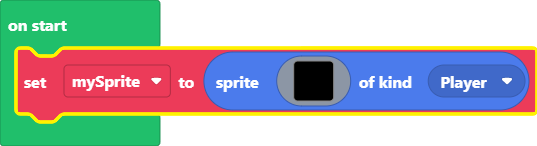
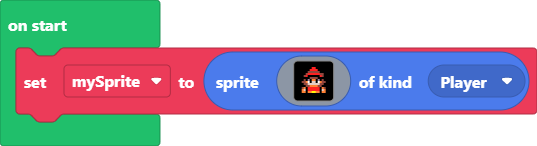
Update main.blocks, main.ts

Changed region(s): [[0.0, 0.3014, 1.0, 0.8493], [0.5363, 0.4658, 0.6257, 0.6575]]

diff --git a/main.ts b/main.ts
@@ -1,18 +1,18 @@
 let mySprite = sprites.create(img`
-    . . . . . . . . . . . . . . . . 
-    . . . . . . . . . . . . . . . . 
-    . . . . . . . . . . . . . . . . 
-    . . . . . . . . . . . . . . . . 
-    . . . . . . . . . . . . . . . . 
-    . . . . . . . . . . . . . . . . 
-    . . . . . . . . . . . . . . . . 
-    . . . . . . . . . . . . . . . . 
-    . . . . . . . . . . . . . . . . 
-    . . . . . . . . . . . . . . . . 
-    . . . . . . . . . . . . . . . . 
-    . . . . . . . . . . . . . . . . 
-    . . . . . . . . . . . . . . . . 
-    . . . . . . . . . . . . . . . . 
-    . . . . . . . . . . . . . . . . 
-    . . . . . . . . . . . . . . . . 
+    . . . . . . f f f f . . . . . . 
+    . . . . f f f 2 2 f f f . . . . 
+    . . . f f f 2 2 2 2 f f f . . . 
+    . . f f f e e e e e e f f f . . 
+    . . f f e 2 2 2 2 2 2 e e f . . 
+    . . f e 2 f f f f f f 2 e f . . 
+    . . f f f f e e e e f f f f . . 
+    . f f e f b f 4 4 f b f e f f . 
+    . f e e 4 1 f d d f 1 4 e e f . 
+    . . f e e d d d d d d e e f . . 
+    . . . f e e 4 4 4 4 e e f . . . 
+    . . e 4 f 2 2 2 2 2 2 f 4 e . . 
+    . . 4 d f 2 2 2 2 2 2 f d 4 . . 
+    . . 4 4 f 4 4 5 5 4 4 f 4 4 . . 
+    . . . . . f f f f f f . . . . . 
+    . . . . . f f . . f f . . . . . 
     `, SpriteKind.Player)
